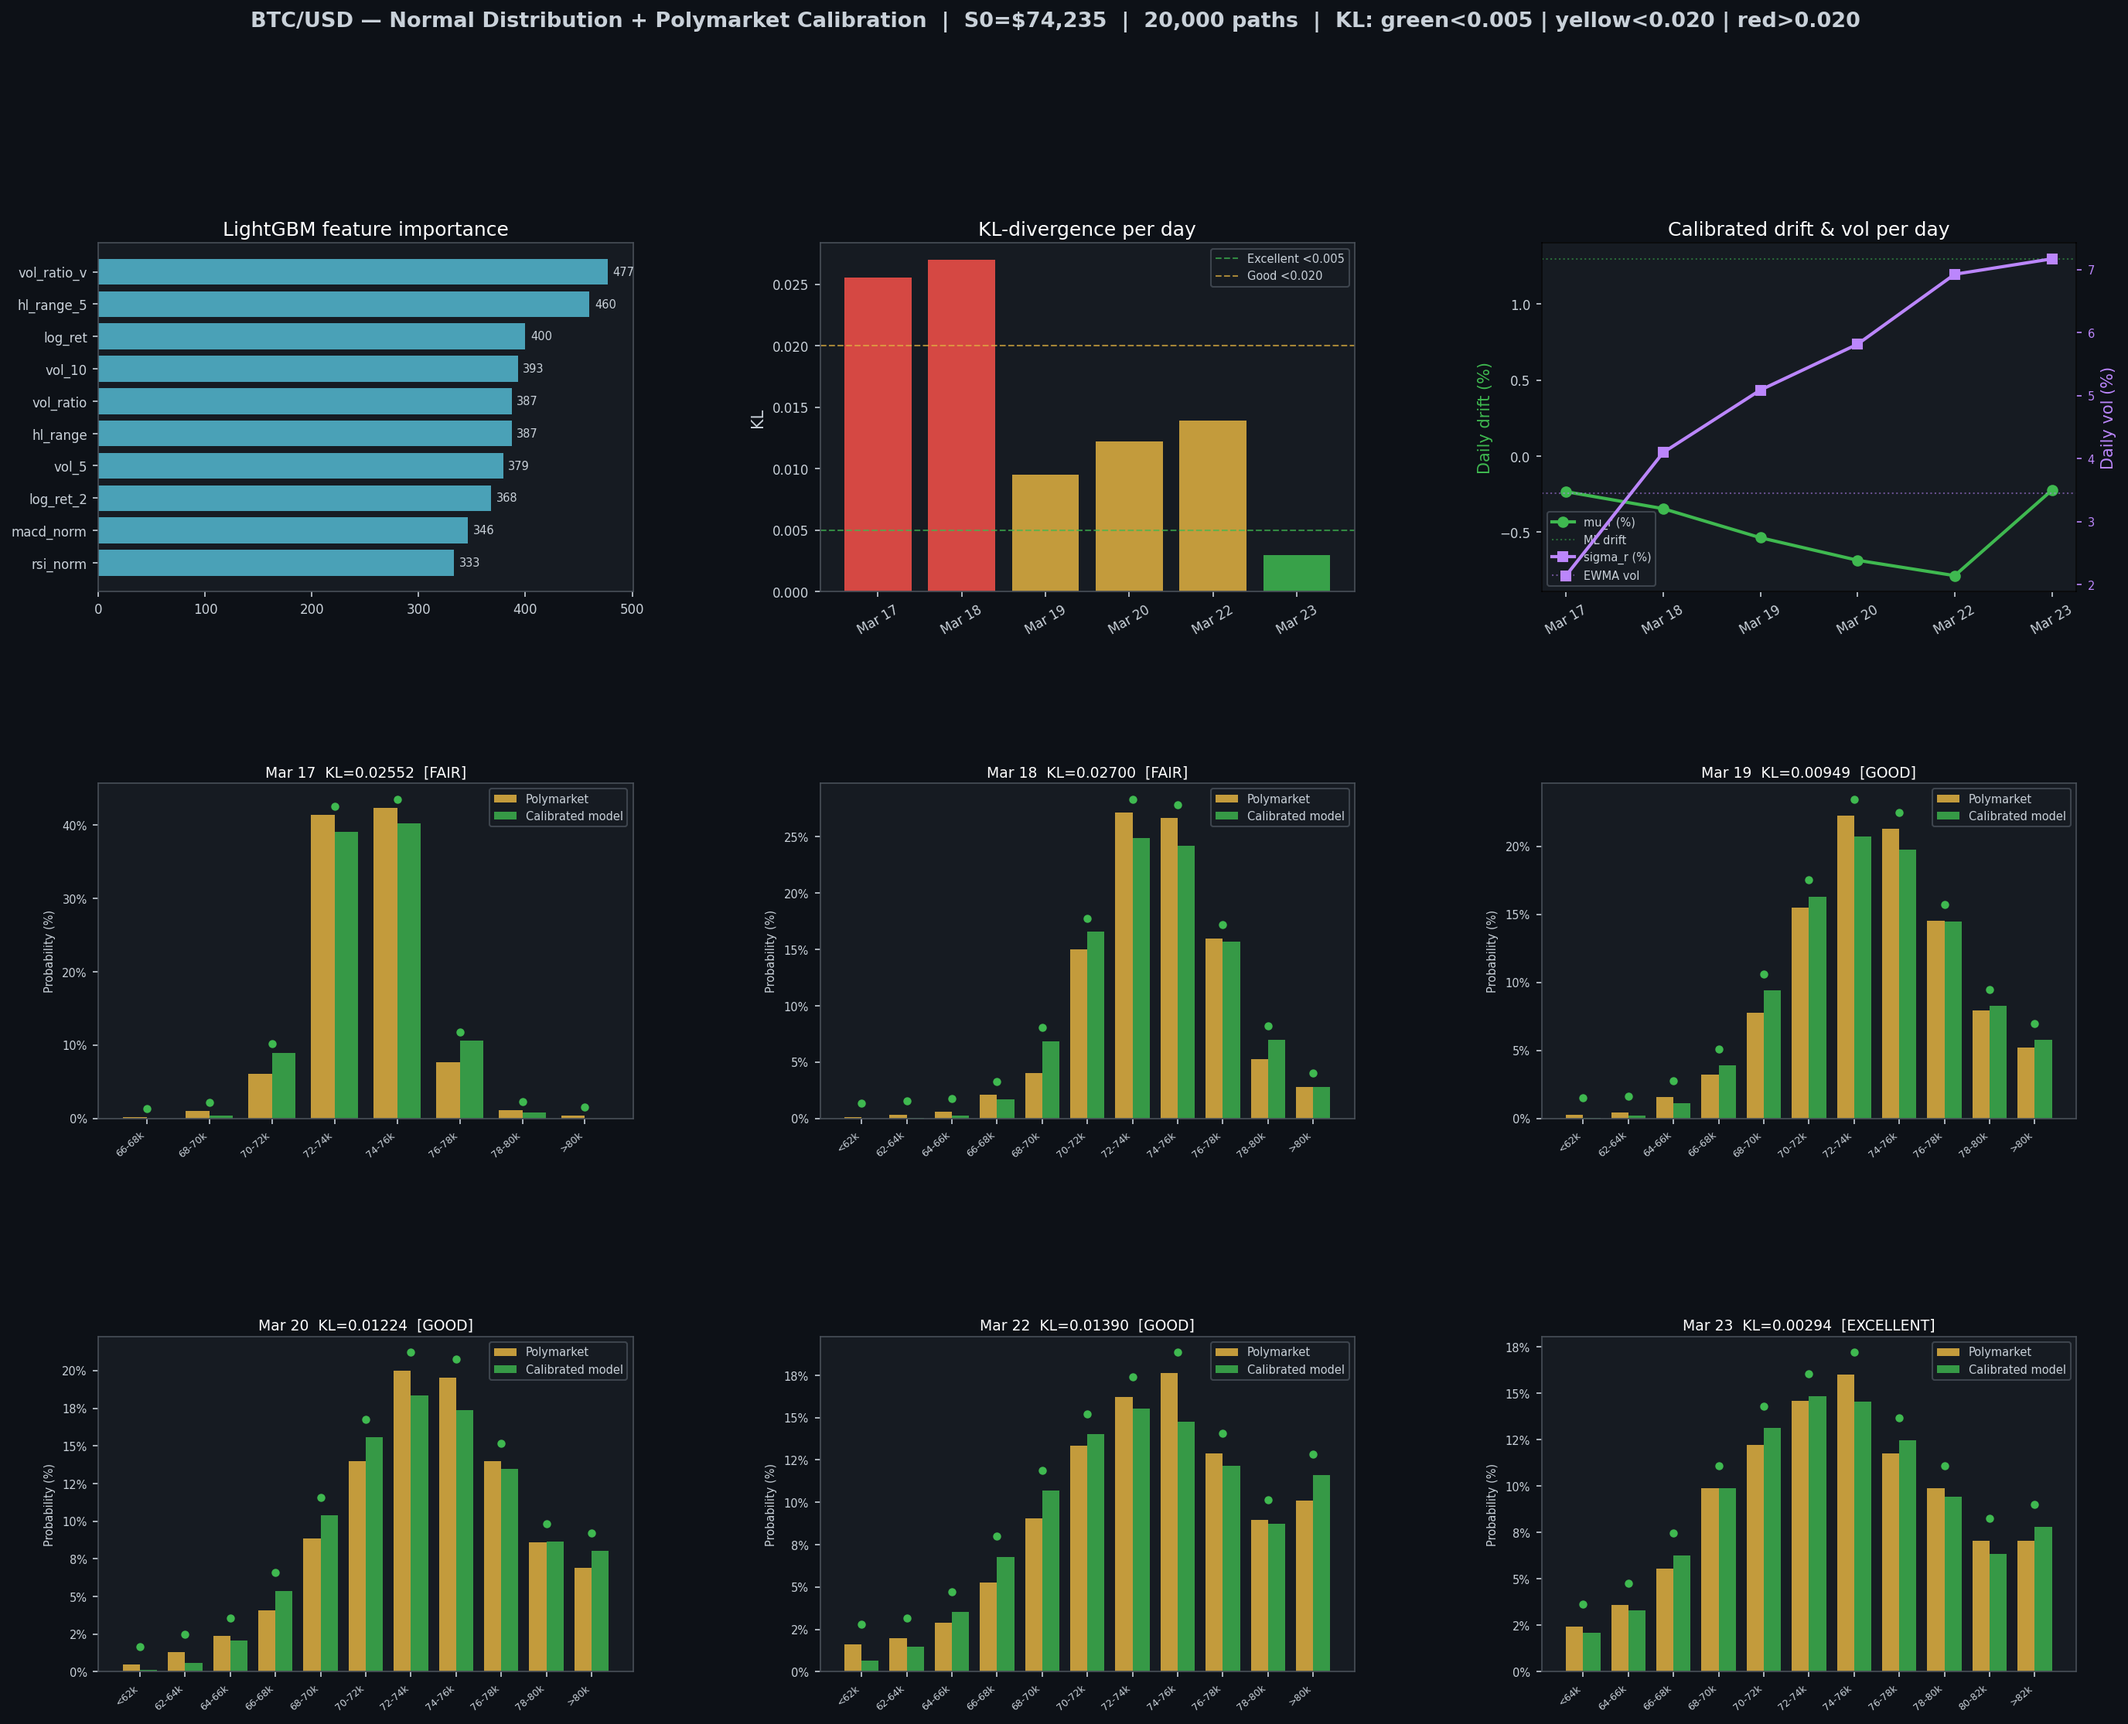
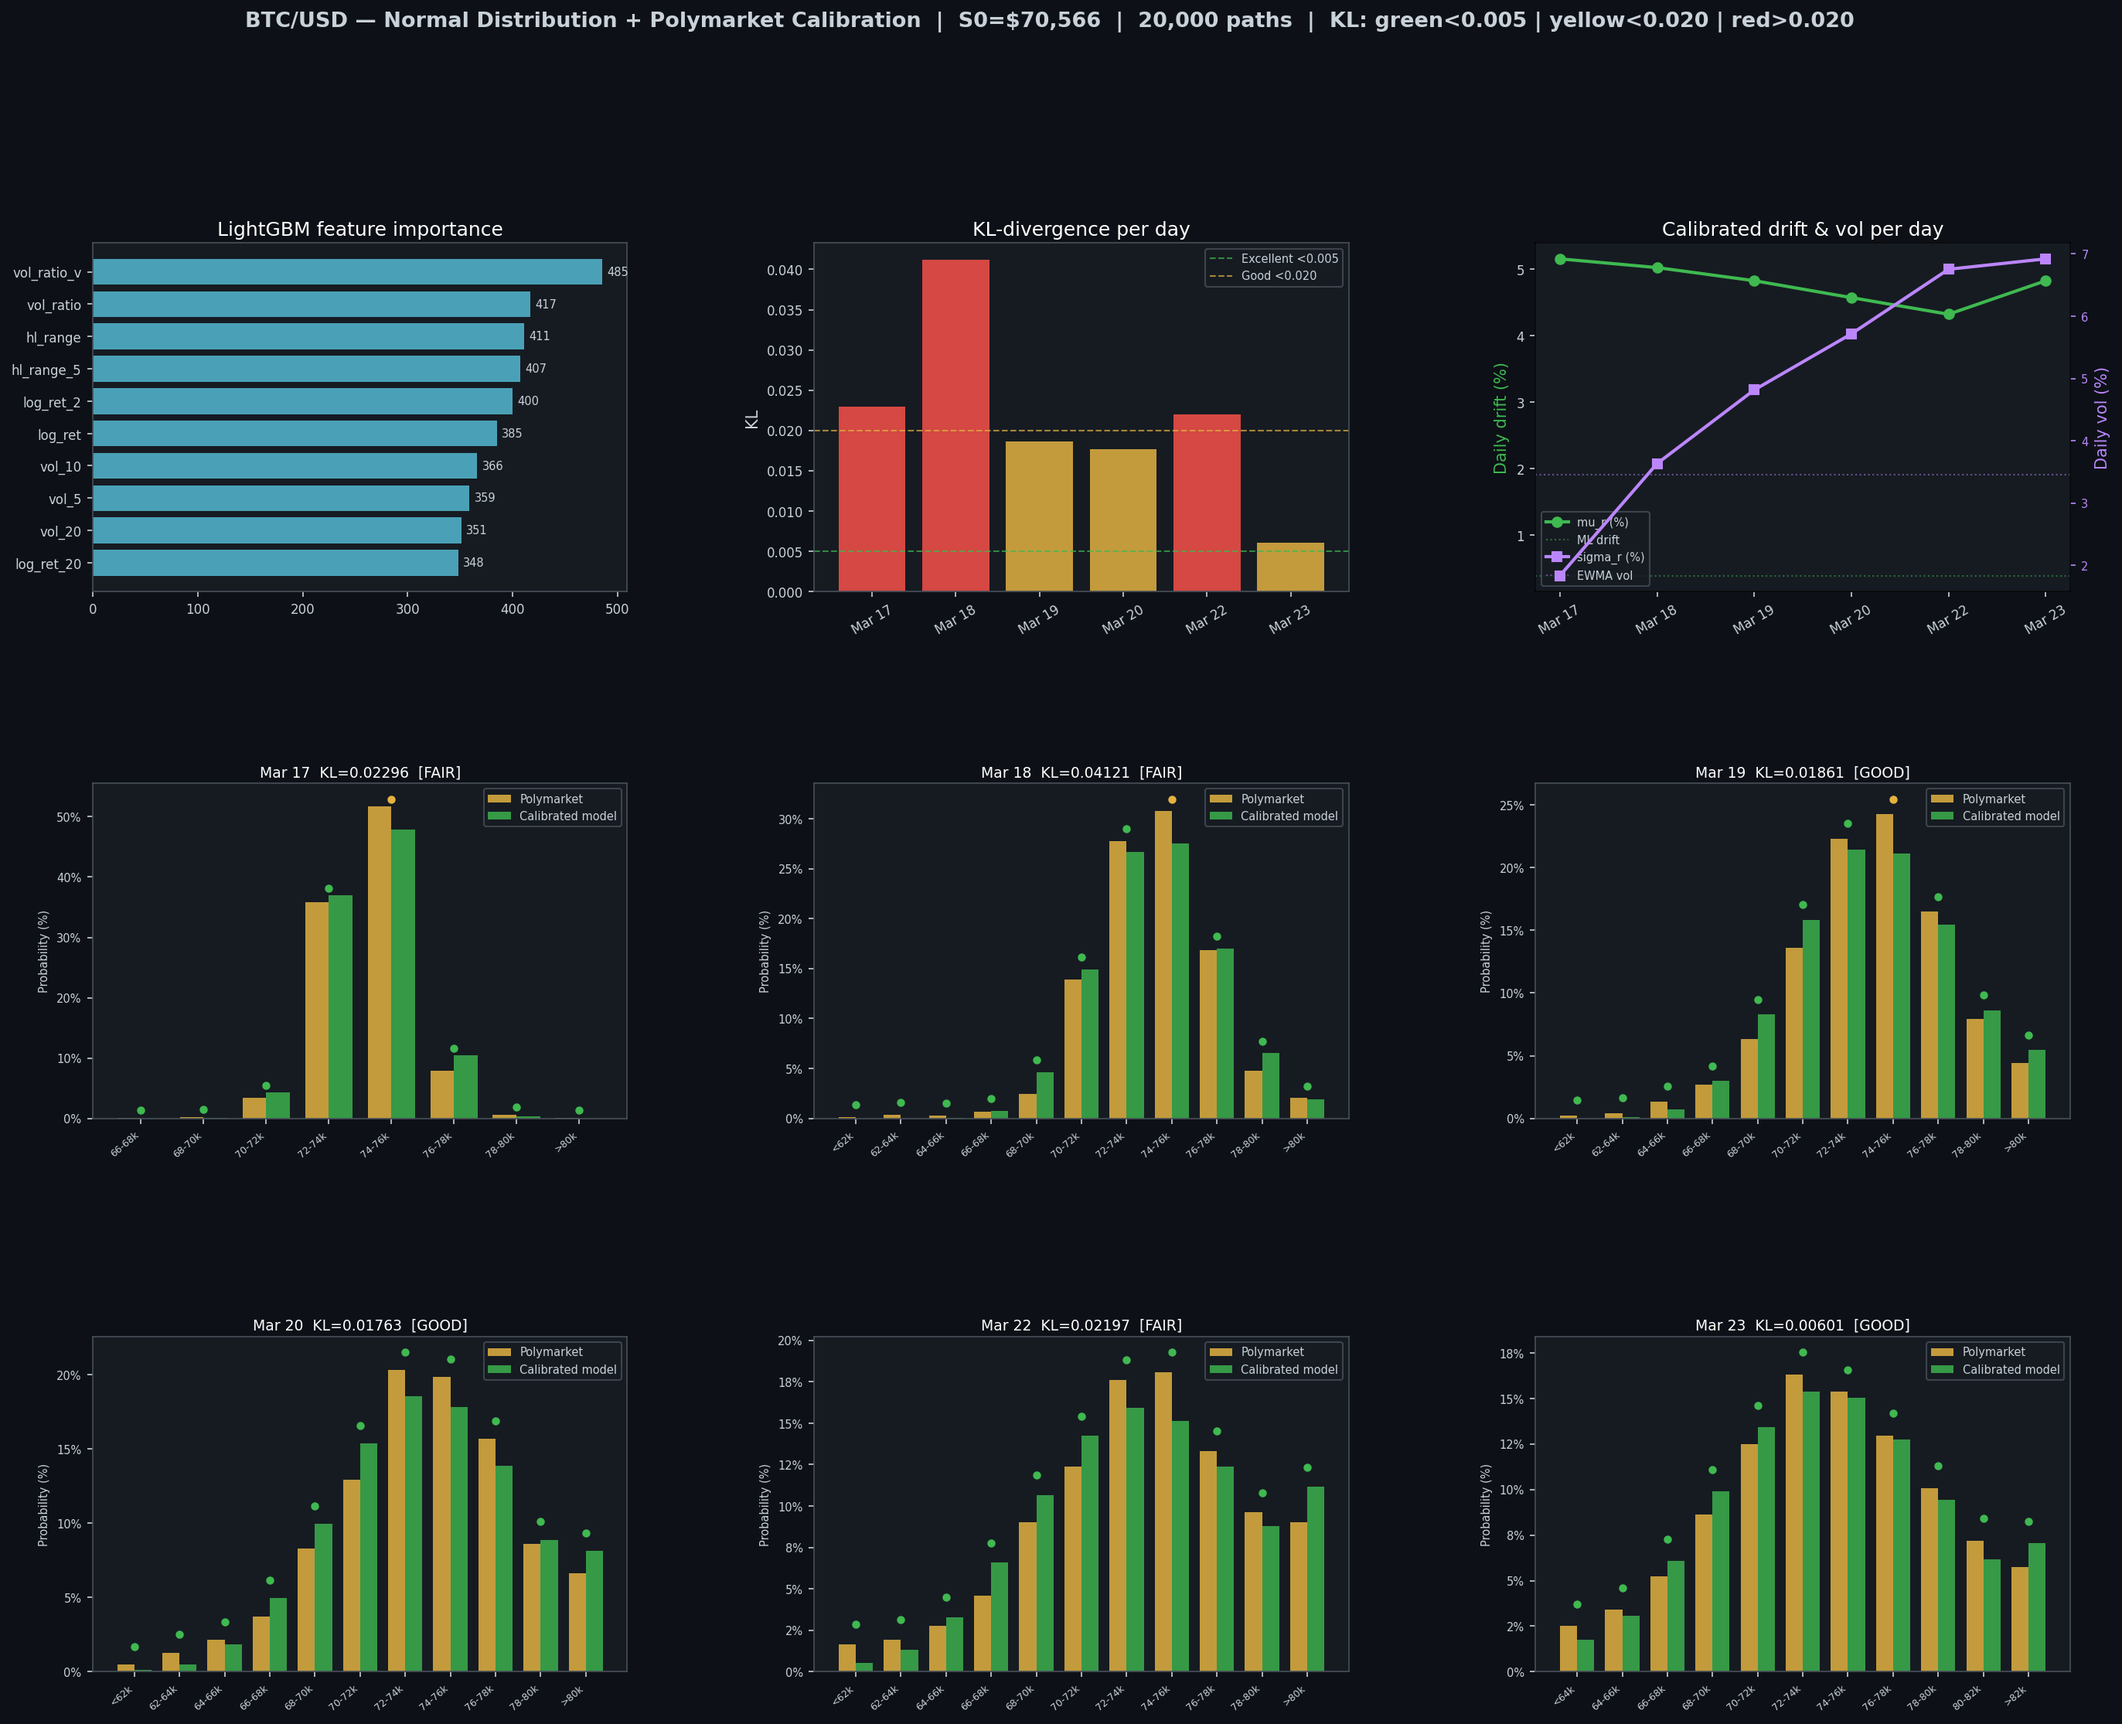
logger and buy/sell

diff --git a/app.py b/app.py
@@ -6,6 +6,7 @@ from detection import Detection
 import time
 import btc_monte_carlo
 from roostoo import Roostoo
+from mylogging import MyLogger
 
 dotenv.load_dotenv()
 
@@ -24,27 +25,51 @@ def AnalyseMarket():
 
     return True
 
+def buy_from_roostoo(broker:Roostoo, coin, amount):
+    last_price = float(broker.get_ticker_last_price(coin)) - 1
+    quantity = round(amount / last_price, 5)
+    roostoo.place_order(coin, "BUY", quantity, last_price)
+    return quantity, last_price
+
+def sell_from_roostoo(broker:Roostoo, coin):
+    last_price = float(broker.get_ticker_last_price(coin)) + 1
+    holdings = float(broker.get_balance()["SpotWallet"]["BTC"]["Free"]) * 0.5
+    holdings = round(holdings, 5)
+    roostoo.place_order(coin, "SELL", holdings, last_price)
+    return holdings, last_price
+
 
 if __name__ == "__main__":
-    market_detector = Detection("BTC/USD", 10)
+    coin = "BTC/USD"
+    market_detector = Detection(coin, 10)
     polymarket = PolyMarket()
+    logger = MyLogger("log.txt")
+    roostoo = Roostoo(API_KEY, SECRET_KEY)
 
     while True:
         execeed_thresh, diff = market_detector.update()
-        if execeed_thresh:
-            time.sleep(60 * 60)
-            continue
+        if not execeed_thresh:
+            logger.log(f"price did not execeed threshold: at last price: {market_detector.get_ticker_last_price()}, waiting for next hour...")
+            time.sleep(60 * 60) #check every hour
 
         fetch_polymarket_bands(polymarket)
         btc_monte_carlo.update_polymarket_bands()
 
         results, model = btc_monte_carlo.run_pipeline()
+        print("ret:", results)
+        with open("test_ret.txt", 'w') as f:
+            f.write(json.dumps(results))
 
         #Warning triggered and went down
-        if diff < 0:
+        results = 0
+        logger.log(f"Monte carlo returned results: {results}, at last price: {market_detector.get_ticker_last_price()}")
+        if results == 0:
+            continue
 
-            pass
+        if diff < 0:
+            quantity, amt = sell_from_roostoo(roostoo, coin)
+            logger.log(f"Sold {coin} of quantity: {quantity} at price: {amt}")
 
         else: #Warning triggered and went up
-
-            pass
+            quantity, amt = buy_from_roostoo(roostoo, coin, 50000)
+            logger.log(f"Bought {coin} of quantity: {quantity} at price: {amt}")

diff --git a/roostoo.py b/roostoo.py
@@ -114,7 +114,6 @@ class Roostoo():
             print(f"Response text: {e.response.text if e.response else 'N/A'}")
             return None
 
-
     def place_order(self, pair_or_coin, side, quantity, price=None, order_type=None):
         """
         Place a LIMIT or MARKET order.
@@ -149,7 +148,6 @@ class Roostoo():
             print(f"Error placing order: {e}")
             print(f"Response text: {e.response.text if e.response else 'N/A'}")
             return None
-
 
     def query_order(self, order_id=None, pair=None, pending_only=None):
         """Query order history or pending orders."""
@@ -199,5 +197,12 @@ class Roostoo():
         exchange = self.get_exchange_info()
         try:
             return list(exchange["TradePairs"].keys())
+        except:
+            return None
+
+    def get_ticker_last_price(self, coin):
+        values = self.get_ticker(coin)
+        try:
+            return values["Data"][coin]["LastPrice"]
         except:
             return None

diff --git a/mylogging.py b/mylogging.py
@@ -1,0 +1,13 @@
+import time
+from datetime import datetime
+
+class MyLogger():
+    def __init__(self, filename):
+        self.filename = filename
+        with open(self.filename, 'w') as f:
+            f.write("")
+
+    def log(self, data):
+        with open(self.filename, 'a') as f:
+            timestamp = datetime.now().strftime("%Y-%m-%d %H:%M:%S")
+            f.write(f"{timestamp}: {data}")

diff --git a/detection.py b/detection.py
@@ -19,10 +19,10 @@ class Detection():
 
     def update(self):
         new_price = self.get_ticker_last_price()
-        ret = True
+        ret = False
         diff = new_price - self.prev
         if abs(diff) > self.difference_threshold:
-            ret = False
+            ret = True
         self.prev = new_price
         return ret, diff
     
